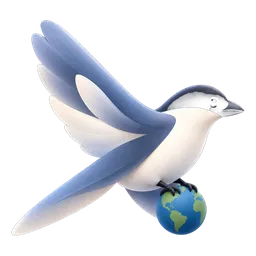
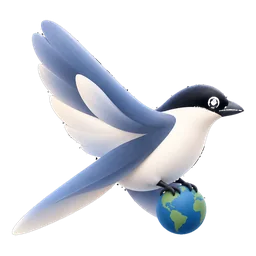
fix(brand): 브랜드 사이트의 지오글 마크도 두건이 살아난 그림으로 바꾼다
seji 쪽과 같은 사고다 — 검은 바탕을 걷어낼 때 가장자리 채우기의 기준값이
70 이라 채우기가 경계 그라데이션을 타고 **새의 검은 두건 속까지 걸어
들어갔고**, 두건이 "바깥"으로 판정되자 알파 되돌리기가 어두운 픽셀을
부풀려 **머리가 회백색으로 파였다.** 눈과 부리도 함께 사라졌다.

나머지 세 마크(브랜드·종이·책)와 og 이미지는 확인해 보니 전부 멀쩡하다 —
그쪽 그림들은 두건이 배경과 떨어져 있어 이 자리를 비켜 갔다. 이번 그림만
두건이 검은 배경에 바로 맞닿아 있었다.

**오려내기 스크립트를 저장소에 남긴다**(`scripts/brand/cutout-magpie.py`).
`recolor-magpie.py` 를 남긴 것과 같은 이유다 — 손으로 하면 마크마다 갈리고,
이번처럼 조용히 깨진 채로 나간다. 어디서 왜 틀렸는지를 파일 맨 위에 적어
뒀다(채우기 기준값 / 갇힌 배경 구멍 / 알파는 밝기가 아니라 덮인 넓이).

webp 는 기존과 같은 256x256 로 인코딩했다(11,364B, 이전 11,426B) — 512 로
저장했다가 20KB 로 불어나는 것을 크기를 재서 잡았다.

Claude-Session: https://claude.ai/code/session_01C5hwXkP7FNVyWqAUhqie3H

diff --git a/scripts/brand/cutout-magpie.py b/scripts/brand/cutout-magpie.py
@@ -1,0 +1,87 @@
+#!/usr/bin/env python3
+"""검은 바탕 위 마크를 투명 PNG 로 오려낸다.
+
+**세 판이 각각 다른 자리에서 틀렸다. 전부 실제 픽셀을 재서 찾았다.**
+
+① 배포된 판 — 가장자리에서 물을 채워 "바깥 검정"을 지우는데 기준값이 70 이라
+   채우기가 경계 그라데이션을 지나 **검은 두건 속까지** 걸어 들어갔다. 두건이
+   "바깥"이 되면 알파 되돌리기가 어두운 픽셀을 부풀려 **머리가 회백색으로
+   파인다.** 실제로 그 상태로 나갔다.
+② 기준값을 낮추고 "안쪽은 지킨다"를 넣은 판 — 이번엔 **날개 사이로 비치는
+   갇힌 배경 구멍**까지 불투명해져 검은 잔점이 스물두 개 생겼다.
+③ 채우기를 버리고 단순 문턱으로 바꾼 판 — 잔점은 사라졌지만 **경계가 톱니로
+   깨졌다.** 알파를 밝기에 비례시킨 것이 원인이다. 반쯤 덮인 크림색 픽셀은
+   L=150 인데 그 식은 "불투명한 회색"으로 읽는다. 알파는 밝기가 아니라 **덮인
+   넓이**다.
+
+지금 판: 알파를 **실루엣을 흐려서** 구한다(덮인 넓이의 근사). 그러면 밝은
+크림색 가장자리든 어두운 두건 가장자리든 같은 규칙으로 맞는다 — 50% 덮인
+크림은 관측 120 · 알파 0.5 → 색 240 으로, 50% 덮인 두건은 관측 6 · 알파 0.5 →
+색 13 으로 제대로 되돌아온다. 색은 곱해져 있던 알파를 나눠서 되찾고, 안쪽
+깊은 곳은 나누지 않고 관측값을 그대로 쓴다(나누면 어두운 두건이 부푼다).
+
+**한계**: 두건이 배경과 똑같은 순수 검정(L<=T)인 그림은 밝기로 가를 수 없다.
+그림을 갈아 끼울 때마다 아래 검사를 실제로 돌려 눈으로 볼 것.
+"""
+from PIL import Image, ImageFilter
+import numpy as np
+
+DEEP   = 3    # 이만큼 안쪽은 관측값 그대로(나누지 않는다) — 두건을 지키는 자리
+SHRINK = 1    # 실루엣을 한 겹 깎는다 — 문턱이 그라데이션의 바깥 끝을 잡아
+              # 경계가 한 겹 부풀고, 그대로 두면 흰 바탕에서 어두운 테두리가
+              # 돈다(둘레 최소밝기 7 → 38 로 재서 고른 값이다)
+BLUR   = 1.0  # 실루엣을 이만큼 흐려 덮인 넓이를 근사한다
+
+def bg_threshold(L):
+    """배경 덩어리가 끝나는 자리를 histogram 에서 찾는다(눈대중 금지)."""
+    h = np.bincount(L.astype(np.int32).ravel(), minlength=256)
+    peak = h[:40].max(); t = int(h[:40].argmax())
+    while t + 1 < 40 and h[t + 1] > peak * 0.02:
+        t += 1
+    return t
+
+def erode(mask, n):
+    m = mask.copy()
+    for _ in range(n):
+        e = m.copy()
+        e[1:, :] &= m[:-1, :]; e[:-1, :] &= m[1:, :]
+        e[:, 1:] &= m[:, :-1]; e[:, :-1] &= m[:, 1:]
+        m = e
+    return m
+
+def cut(src):
+    a = np.asarray(Image.open(src).convert("RGB")).astype(np.float32)
+    L = a.max(-1)
+    T = bg_threshold(L)
+    sil = L > T                                  # 갇힌 배경 구멍도 함께 빠진다
+    m = Image.fromarray((erode(sil, SHRINK) * 255).astype(np.uint8)).filter(
+        ImageFilter.GaussianBlur(BLUR))
+    alpha = np.asarray(m).astype(np.float32) / 255.0
+    deep = erode(sil, DEEP)
+    alpha = np.where(deep, 1.0, alpha)
+    rgb = np.where(deep[..., None], a,
+                   np.clip(a / np.maximum(alpha, 1e-3)[..., None], 0, 255))
+    rgb = np.where(alpha[..., None] > 0.004, rgb, 0)
+    out = np.concatenate([rgb, alpha[..., None] * 255], -1)
+    return Image.fromarray(np.clip(out, 0, 255).astype(np.uint8), "RGBA"), T
+
+def square(img, size, ink_ratio):
+    al = np.asarray(img)[..., 3]
+    ys, xs = np.nonzero(al > 10)
+    box = img.crop((xs.min(), ys.min(), xs.max() + 1, ys.max() + 1))
+    k = size * ink_ratio / max(box.size)
+    nw, nh = max(1, round(box.size[0]*k)), max(1, round(box.size[1]*k))
+    box = box.resize((nw, nh), Image.LANCZOS)
+    c = Image.new("RGBA", (size, size), (0, 0, 0, 0))
+    c.paste(box, ((size-nw)//2, (size-nh)//2), box)
+    return c
+
+if __name__ == "__main__":
+    import sys
+    src = sys.argv[1] if len(sys.argv) > 1 else sys.exit("쓰기: cutout-magpie.py <검은 바탕 원본.png>")
+    img, T = cut(src)
+    print(f"배경 기준값 T={T} (histogram 에서 잰 값)")
+    img.save("final-cut.png")
+    for s in (512, 192, 64):
+        square(img, s, 466/512).save(f"final-{s}.png")
+    print("저장: final-cut.png, final-512/192/64.png")
